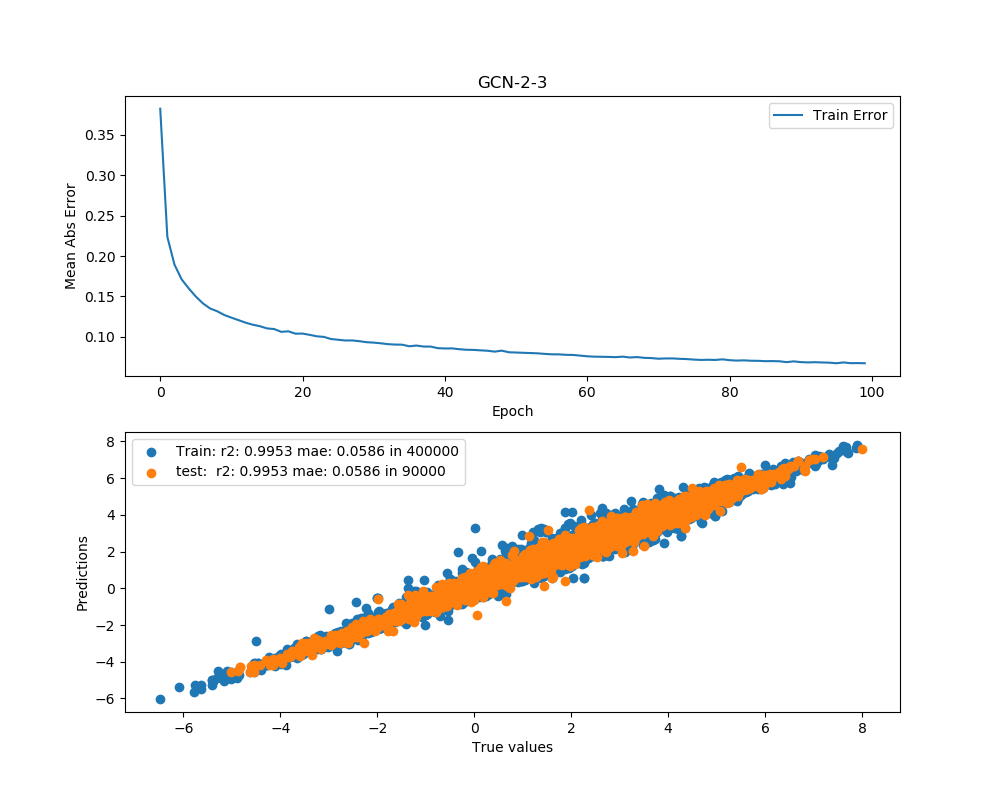
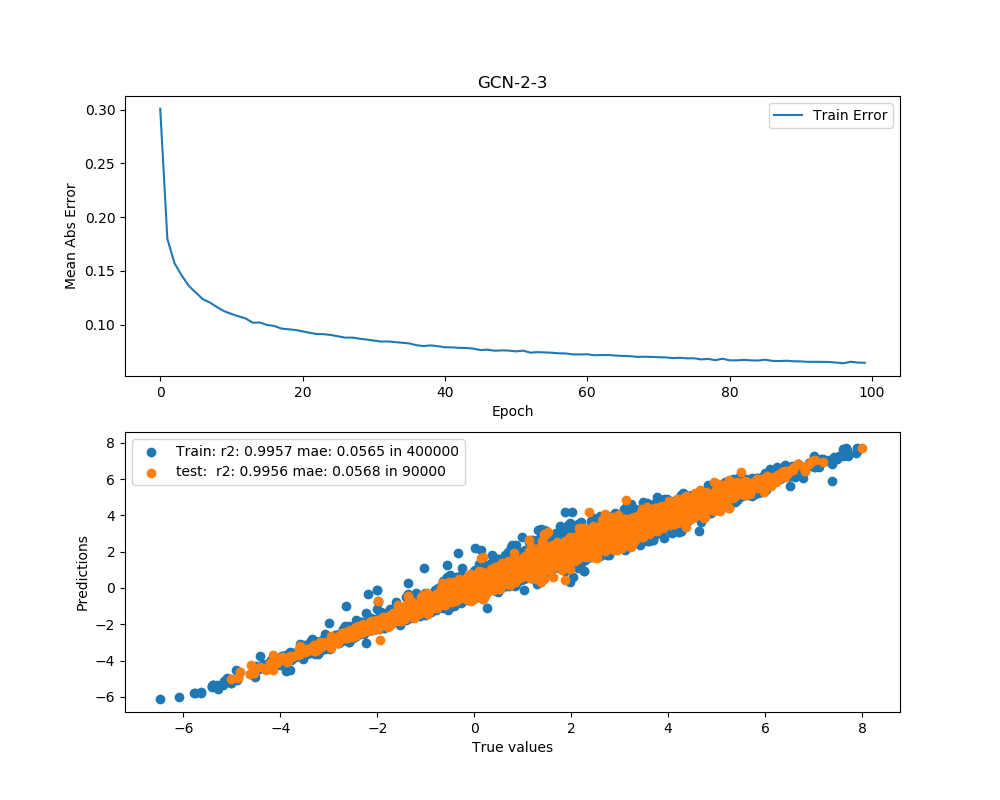
update parameter

diff --git a/tf.keras/tf-keras.py b/tf.keras/tf-keras.py
@@ -148,7 +148,7 @@ adj2, features2, props2 = load_data(40,49)
 
 #Define the model
 lr = 1e-3
-model = mymodel(model_name='GCN', graph_layers=[32, 32], mlp_layers=[128, 128])
+model = mymodel(model_name='GCN', graph_layers=[32, 32], mlp_layers=[128, 64])
 #optimizer = tf.keras.optimizers.RMSprop(0.001)
 optimizer = tf.keras.optimizers.Adam(lr=lr, decay=1e-6)
 model.compile(loss='mean_squared_error',
@@ -164,8 +164,6 @@ history = model.fit(x=[features1, adj1], y=props1, batch_size=100,
 #Analyze the results
 res1 = model.predict([features1,adj1])
 res2 = model.predict([features2,adj2])
-res = np.append(res1, res2).flatten()
-props = np.append(props1, props2).flatten()
 print('r2 in train: ', r2_score(res1, props1))
 print('r2 in test: ', r2_score(res2, props2))
 
